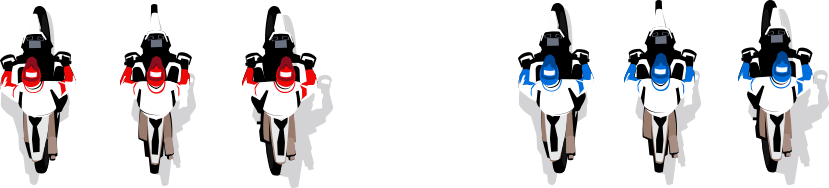
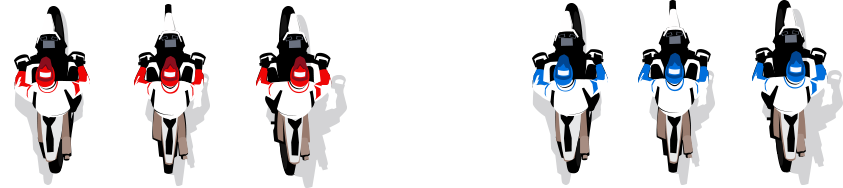
Adding new images

diff --git a/main.js b/main.js
@@ -17,7 +17,7 @@
 
             for ( var pltfrm in Platform ) {
                 if ( Platform[pltfrm].matches ) {
-                    platform = pltfrm;
+                    Game.platform = platform = pltfrm;
                     break;
                 }
             }
@@ -51,24 +51,35 @@
 
         position: [0, 0],
 
-        positions: [
-            [ 0.47011, 0.00707 ]
-        ],
+        positions: {
+            mobile: [ 0, 0.0029],
+            tablet: [0.47011, 0.0038],
+            desktop: [0, 0.0045],
+            largeDesktop: [0, 0.0045]
+        },
 
         rider: [
             {
                 name: "C S Santhosh",
                 image: {
-                    normal: [-98, 0],
+                    normal: [-112, 0],
                     left: [0, 0],
-                    right: [-218, 0]
+                    right: [-230, 0]
+                }
+            },
+            {
+                name: "Oriel Meena",
+                image: {
+                    normal: [-623, 0],
+                    left: [-517, 0],
+                    right: [-733, 0]
                 }
             }
         ],
 
         container: document.createElement("div"),
 
-        selectedRider: 0,
+        selectedRider: 1,
 
         /** TODO: set dimensions using a bike in the atlas sheet */
         dimensions: {
@@ -90,12 +101,8 @@
 
         orientation: "normal",
 
-        scaleBike: function() {
-
-        },
-
         getStartPosition: function() {
-            return [ Bike.positions[0][0] * bgImage.clientWidth, Bike.positions[0][1] * bgImage.clientHeight ];
+            return [ 0, Bike.positions[Game.platform][1] * bgImage.clientHeight ];
         },
 
         setToNormal: function() {
@@ -116,12 +123,12 @@
 
         turn: function() {
             Bike.position = [ ( Bike.orientation === "left" ? -(0.05 * bgImage.clientWidth) : (0.05 * bgImage.clientWidth) ), 0];
-            TweenMax.to(Bike.container, 0.5, { css: { transform: "scale(" + bgImage.clientHeight / 25083 + ") translate("+ Bike.position[0] +"px, " + Bike.position[1] + "px)" }, onComplete: Bike.setToNormal });
+            TweenMax.to(Bike.container, 1.5, { css: { transform: "scale(" + bgImage.clientHeight / 49047 + ") translate("+ Bike.position[0] +"px, " + Bike.position[1] + "px)" }, onComplete: Bike.setToNormal });
         },
 
         renderOnStartPosition: function() {
             var startPos = Bike.getStartPosition();
-            Bike.position = [startPos[0] - Bike.dimensions.normal.cx, startPos[1] - Bike.dimensions.normal.cy];
+            Bike.position = [startPos[0], startPos[1]];
             var bike = Bike.container;
 
             bike.style.background = "url(" + Bike.image + ") " + Bike.rider[Bike.selectedRider].image[Bike.orientation][0] + "px " + Bike.rider[Bike.selectedRider].image[Bike.orientation][1] + "px";
@@ -129,7 +136,7 @@
             bike.className = "bike";
             bike.style.width = "121px";
             bike.style.height = "188px";
-            bike.style.transform = "scale(" + bgImage.clientHeight / 25083 + ")";
+            bike.style.transform = "scale(" + bgImage.clientHeight / 49047 + ")";
             Game.arena.appendChild(bike);
         },
 
@@ -144,13 +151,13 @@
 
     var Terrain = {
         images: {
-            "largeDesktop": "./assets/images/race_background_large_desktop.png",
-            "desktop": "./assets/images/race_background_desktop.png",
-            "mobile": "./assets/images/race_background_mobile.png",
-            "tablet": "./assets/images/race_background_tablet.png"
+            "largeDesktop": "./assets/images/race_background_large_desktop.jpg",
+            "desktop": "./assets/images/race_background_desktop.jpg",
+            "mobile": "./assets/images/race_background_mobile.jpg",
+            "tablet": "./assets/images/race_background_tablet.jpg"
         },
 
-        easeAnimation: Power1.easeIn,
+        easeAnimation: Power1.easeInOut,
 
         step: 0,
 
@@ -168,32 +175,37 @@
             var startPos = -( bgImage.height - vh );
             Terrain.position = startPos;
             bgImage.style.transform = "translate(0px, " + startPos + "px)";
-            setTimeout(Game.run, 2000);
         }
     };
 
     var Timer = {
-        time: 0, 
+        time: 0,
+        
+        currentQuestionTime: 0,
 
         start: function() {
-
+            Timer.currentQuestionTime = new Date();
         },
 
-        resume: function() {
-
+        end: function() {
+            var now = new Date();
+            var elapsedTime =  ( now - Timer.currentQuestionTime ) / 1000;
+            Timer.time += elapsedTime;
         },
 
-        pause: function() {
-
+        penalty: function() {
+            Timer.time += 15;
         },
         
         reset: function() {
-
+            Timer.time = 0;
         }
     };
 
     var Game = {
         rider: "",
+
+        userData: {},
 
         arena: document.getElementById("game"),
 
@@ -205,24 +217,29 @@
 
         questions: [],
 
+        platform: "desktop",
+
         error: {
             questions: false,
             terrain: false,
-            bike: false
+            bike: false,
+            submit: false
         },
 
         timer: Timer,
 
         fetchQuestions: function() {
-            Data.fetch("/questions").then(function(response) {
-                console.log(Game.questions);
+            Data.fetch("/userData").then(function(response) {
+                Game.userData = response.userInfo.shift();
+                Game.questions = Util.randomize(response.userInfo);
+                console.log("Game questions ready");
             }, function(err) {
-                console.log(err);
+                Game.error.questions = true;
+                console.log("Error while fetching questions");
             })
         },
 
         run: function() {
-            console.log(Game.error);
             if ( !Game.error.questions && !Game.error.terrain && !Game.error.bike ) {
                 Game.firstLevel();
             } else {
@@ -230,8 +247,18 @@
             } 
         },
 
+        checkAnswer: function(answer) {
+            if (answer) {
+                setTimeout(Timer.end, 0);
+            } else {
+                setTimeout(Timer.penalty, 0);
+            }
+            Game.levelUp();
+        },
+
         showQuestion: function() {
-            console.log(Game.questions[Game.level-1]);
+            console.log(Game.questions[Game.level - 1]);
+            setTimeout(Timer.start, 0);
         },
 
         firstLevel: function() {
@@ -245,7 +272,7 @@
             var yPos = Terrain.position = -(Math.abs(Terrain.position) - Terrain.step);
             Game.level++;
             Bike.orientation = Game.level % 2 === 0 ? "left" : "right"; // TODO: random or according to path
-            setTimeout(Bike.sway, 2000);
+            setTimeout(Bike.sway, 1000);
             if (Game.level === 10) {
                 TweenMax.to(bgImage, 4, { ease: Terrain.easeAnimation, css: { transform: "translate(0px, " + yPos + "px)" }, onComplete: Game.complete });    
             } else {
@@ -253,8 +280,31 @@
             }
         },
 
+        /** TODO: Remove keyup listeners */
+        listeners: function() {
+            document.addEventListener("keyup", function(e) {
+                switch(e.which) {
+                    case 37: Game.checkAnswer(true); break;
+                    case 38: Game.run(); break;
+                    case 39: Game.checkAnswer(false); break;
+                    case 40: console.log(Timer.time); break;
+                }
+            });
+        },
+
+        selectRider: function(index) {
+            Game.selectedRider = index;
+        },
+
         complete: function() {
-            console.log("done");
+            var data = { userId: "123ABC", time: Timer.time }; /** TODO: Replace with actual data */
+            data = encodeURIComponent(JSON.stringify(data));
+            Data.post("/getscoredetails", data).then(function(response) {
+
+            }, function(error) {
+                Game.error.submit = true;
+                /** TODO: Handle submit error */
+            });
         }
     };
 
@@ -271,22 +321,16 @@
                         if (xmlhttp.status == 200) {
                             try {
                                 var response = JSON.parse(xmlhttp.responseText);
-                                Game.questions = Util.randomize(response.questionsData);
-                                resolve();
+                                resolve(response);
                             } catch (err) {
-                                Game.error.questions = true;
-                                console.log("Error while fetching questions");
                                 reject();
                             }
                         }
                         else if (xmlhttp.status == 400) {
-                            Game.error.questions = true;
-                            console.log("Error while fetching questions");
+                            
                             reject();
                         }
                         else {
-                            Game.error.questions = true;
-                            console.log("Error while fetching questions");
                             reject();
                         }
                     }
@@ -295,8 +339,29 @@
                 xmlhttp.open("GET", Data.endpoint + url, true);
                 xmlhttp.setRequestHeader("Access-Control-Allow-Origin", "*");
                 xmlhttp.setRequestHeader("Access-Control-Allow-Credentials", "true");
+                xmlhttp.setRequestHeader("authToken", "Basic SGVyb21vdG9zcG9ydHM6SE1TQDIwMTgh")
                 xmlhttp.send();
                 
+            });
+        },
+
+        post: function(url, data) {
+            return new Promise(function( resolve, reject ) {
+
+                var xmlhttp = new XMLHttpRequest();
+
+                xmlhttp.onreadystatechange = function() {
+                    if(xmlhttp.readyState == 4 && xmlhttp.status == 200) {
+                        console.log(xmlhttp.responseText);
+                    }
+                }
+
+                xmlhttp.open("POST", Data.endpoint + url, true);
+                xmlhttp.setRequestHeader("Access-Control-Allow-Origin", "*");
+                xmlhttp.setRequestHeader("Access-Control-Allow-Credentials", "true");
+                xmlhttp.setRequestHeader("Content-type", "application/x-www-form-urlencoded");
+                xmlhttp.send(data);
+
             });
         }
     };
@@ -322,10 +387,12 @@
     bikeAtlas.src = Bike.image;
 
     Game.fetchQuestions();
+    Game.listeners();
 
     /** TODO: Remove these lines */
     window.Game = Game;
     window.Bike = Bike;
     window.Terrain = Terrain;
+    window.Timer = Timer;
 
 })();
